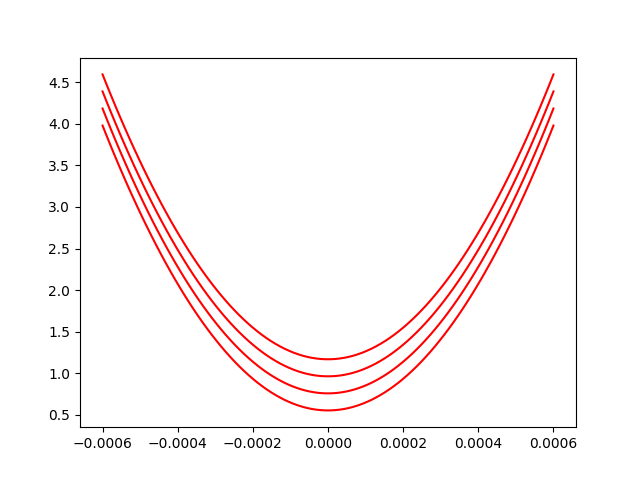
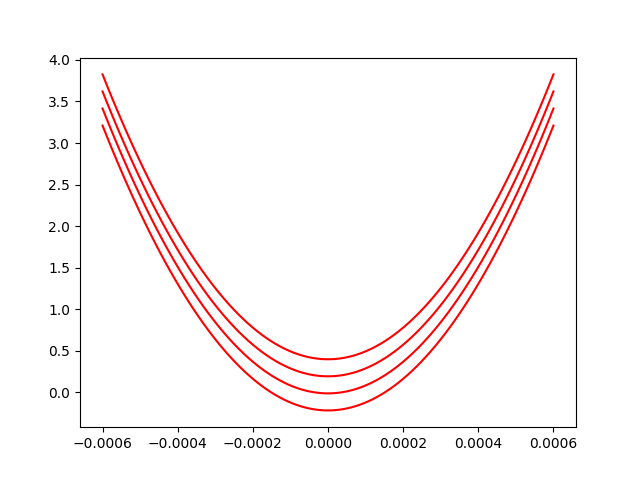
all is computed right excpet non linéarity

diff --git a/main.py b/main.py
@@ -178,7 +178,7 @@ def computeRigidityAsPositionANDPreload12(mechanism, path):
     fig = plt.figure()
     ax = fig.add_subplot(1, 1, 1)
     #close up of the 0 rigidity region
-    f = np.linspace(2.63-89*0.0008766/3, 2.63-85*0.0008766/3, 4)  # force Preload
+    f = np.linspace(2.63-104*0.0008766/3, 2.63-100*0.0008766/3, 4)  # force Preload
     x = np.linspace(rangeMin, rangeMax, 100)  # position
     for i in range(0, len(f)):
         yE = []

diff --git a/report.md b/report.md
@@ -151,17 +151,28 @@ dants aux réglages pmax , respectivement pmin (note : vérifier bien que keq,mi
 ![RigidityAsPositionANDPreload.png](RigidityAsPositionANDPreload.png)
 
 ## 3.10 non-linéarité relative mu pour p min et max
+
 mu_r=0
 
-## 3.12 résolution
-![RigidityAsPositionANDPreload12.png](RigidityAsPositionANDPreload12.png)
 
+
+
+
+## 3.12 résolution
+
+![RigidityAsPositionANDPreload12.png](RigidityAsPositionANDPreload12.png)
+( chaque ligne montre un réglage de résolution)
+ce graphe montre la résolution a 4 point conséqutif de réglable de la précontrainte)
+dans le pire des cas on as une rigidité :
 RigidityPmin=0.2 N/m
 
 RigidityFPmax=2.5N/m
 
 RFminpmin = 2 nF
 RFminpmax = 25 nF
+
+
+mais dans le meilleures des cas elle peut etre encore meilleure
 
 ## 3.13 Force Max mesurable à p_min et p_max
 avec Fmax ∼= keq · smax
